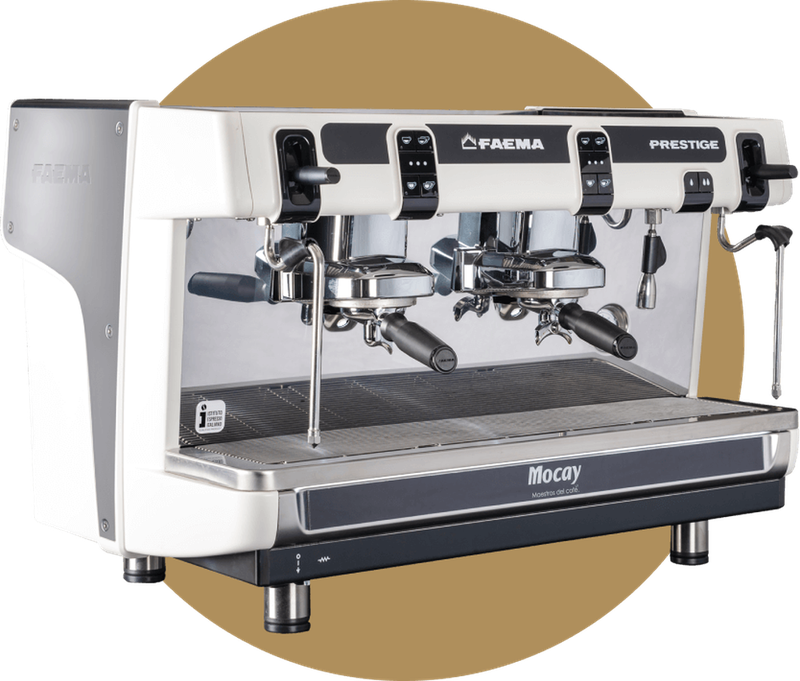
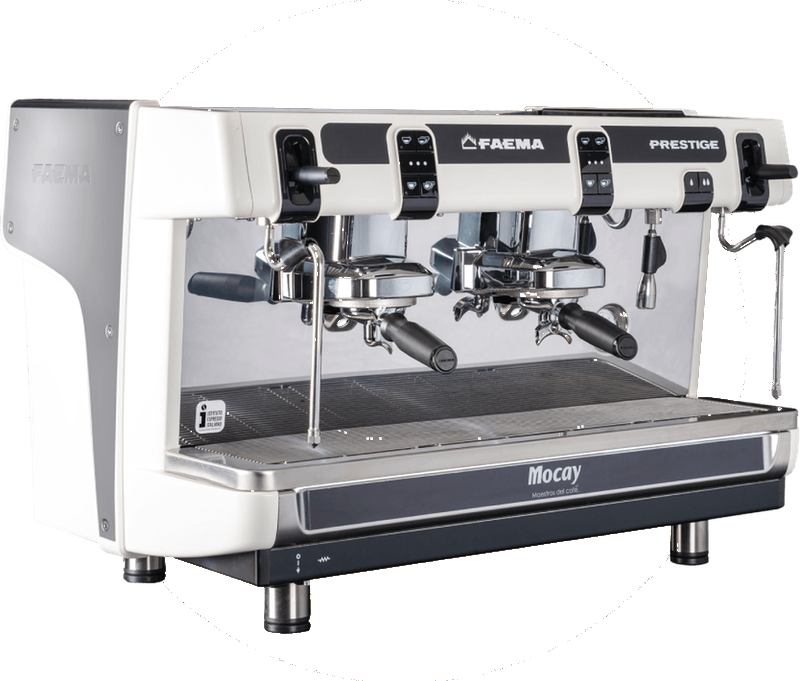
Café Mocay: cafetera Faema sin el círculo marrón de fondo, igual que las demás
Claude-Session: https://claude.ai/code/session_01FJ9bb3Zq5ukMTz3hrkS8GF

Changed region(s): [[0.1875, 0.7709, 0.8438, 1.0], [0.1875, 0.0, 0.8125, 0.185], [0.875, 0.3084, 0.9375, 0.5859]]

diff --git a/cafe-mocay.html b/cafe-mocay.html
@@ -235,7 +235,7 @@
     </section>
 
     <section class="m-service" id="servicio" aria-labelledby="m-service-title">
-      <div class="m-service-image"><img src="assets/mocay/academy-servicio-foto.png" width="1030" height="910" alt="Barista decorando con una cucharilla un café con leche en copa, junto al logo de Mocay Academy" loading="lazy" decoding="async"><div class="m-machine" data-machine="cafetera" aria-hidden="true"><img src="assets/mocay/maquina-cafetera-crem-ex3-negra.png?v=bd290d1b" width="732" height="455" alt="" loading="lazy" decoding="async"><img src="assets/mocay/maquina-cafetera-crem-ex3-blanca.png?v=b8ee1806" width="716" height="483" alt="" loading="lazy" decoding="async"><img src="assets/mocay/maquina-cafetera-faema.png" width="800" height="681" alt="" loading="lazy" decoding="async"></div><div class="m-machine" data-machine="molino" aria-hidden="true"><img src="assets/mocay/maquina-molino-orhi-negro.png?v=992dc0fd" width="190" height="657" alt="" loading="lazy" decoding="async"><img src="assets/mocay/maquina-molino-e1-prima.png?v=9a9a97e1" width="286" height="694" alt="" loading="lazy" decoding="async"><img src="assets/mocay/maquina-molino-orhi-blanco.png?v=9e6f07da" width="188" height="657" alt="" loading="lazy" decoding="async"></div></div>
+      <div class="m-service-image"><img src="assets/mocay/academy-servicio-foto.png" width="1030" height="910" alt="Barista decorando con una cucharilla un café con leche en copa, junto al logo de Mocay Academy" loading="lazy" decoding="async"><div class="m-machine" data-machine="cafetera" aria-hidden="true"><img src="assets/mocay/maquina-cafetera-crem-ex3-negra.png?v=bd290d1b" width="732" height="455" alt="" loading="lazy" decoding="async"><img src="assets/mocay/maquina-cafetera-crem-ex3-blanca.png?v=b8ee1806" width="716" height="483" alt="" loading="lazy" decoding="async"><img src="assets/mocay/maquina-cafetera-faema.png?v=cb252f15" width="800" height="681" alt="" loading="lazy" decoding="async"></div><div class="m-machine" data-machine="molino" aria-hidden="true"><img src="assets/mocay/maquina-molino-orhi-negro.png?v=992dc0fd" width="190" height="657" alt="" loading="lazy" decoding="async"><img src="assets/mocay/maquina-molino-e1-prima.png?v=9a9a97e1" width="286" height="694" alt="" loading="lazy" decoding="async"><img src="assets/mocay/maquina-molino-orhi-blanco.png?v=9e6f07da" width="188" height="657" alt="" loading="lazy" decoding="async"></div></div>
       <div class="m-service-copy">
         <p class="m-eyebrow">Servicio para hostelería</p>
         <h2 id="m-service-title">Mucho más<br>que café<span class="m-dot">.</span></h2>
